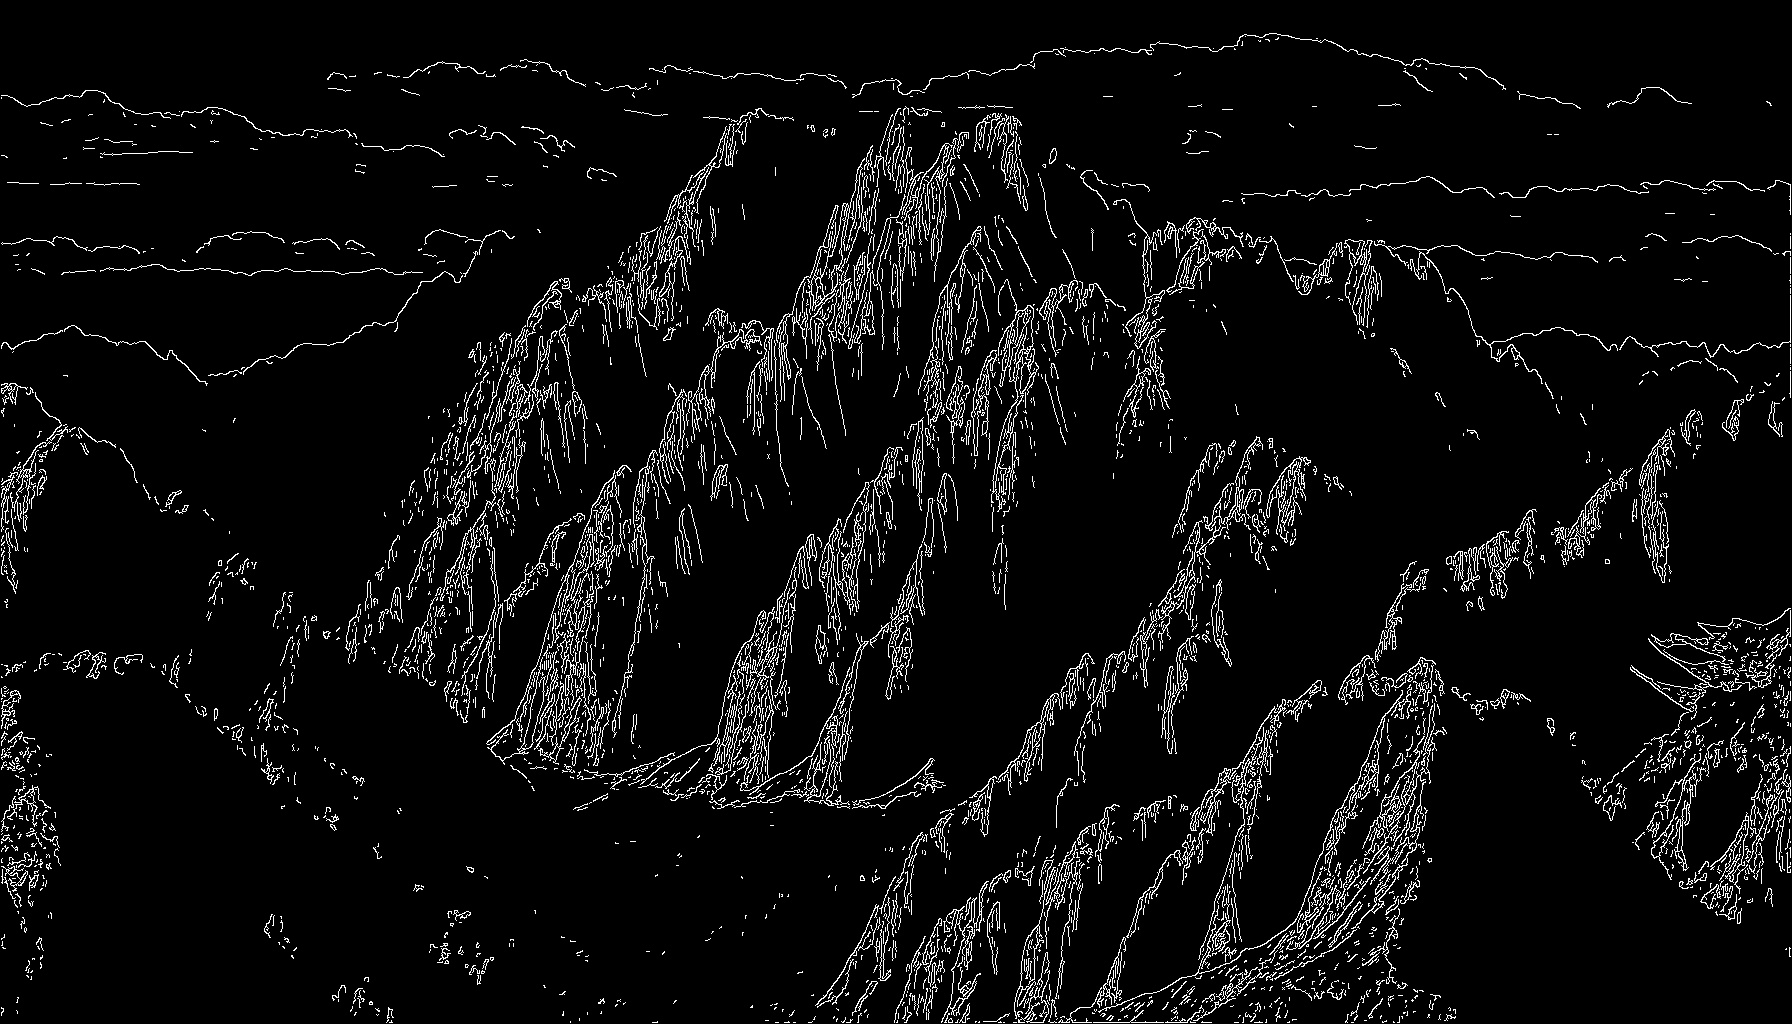
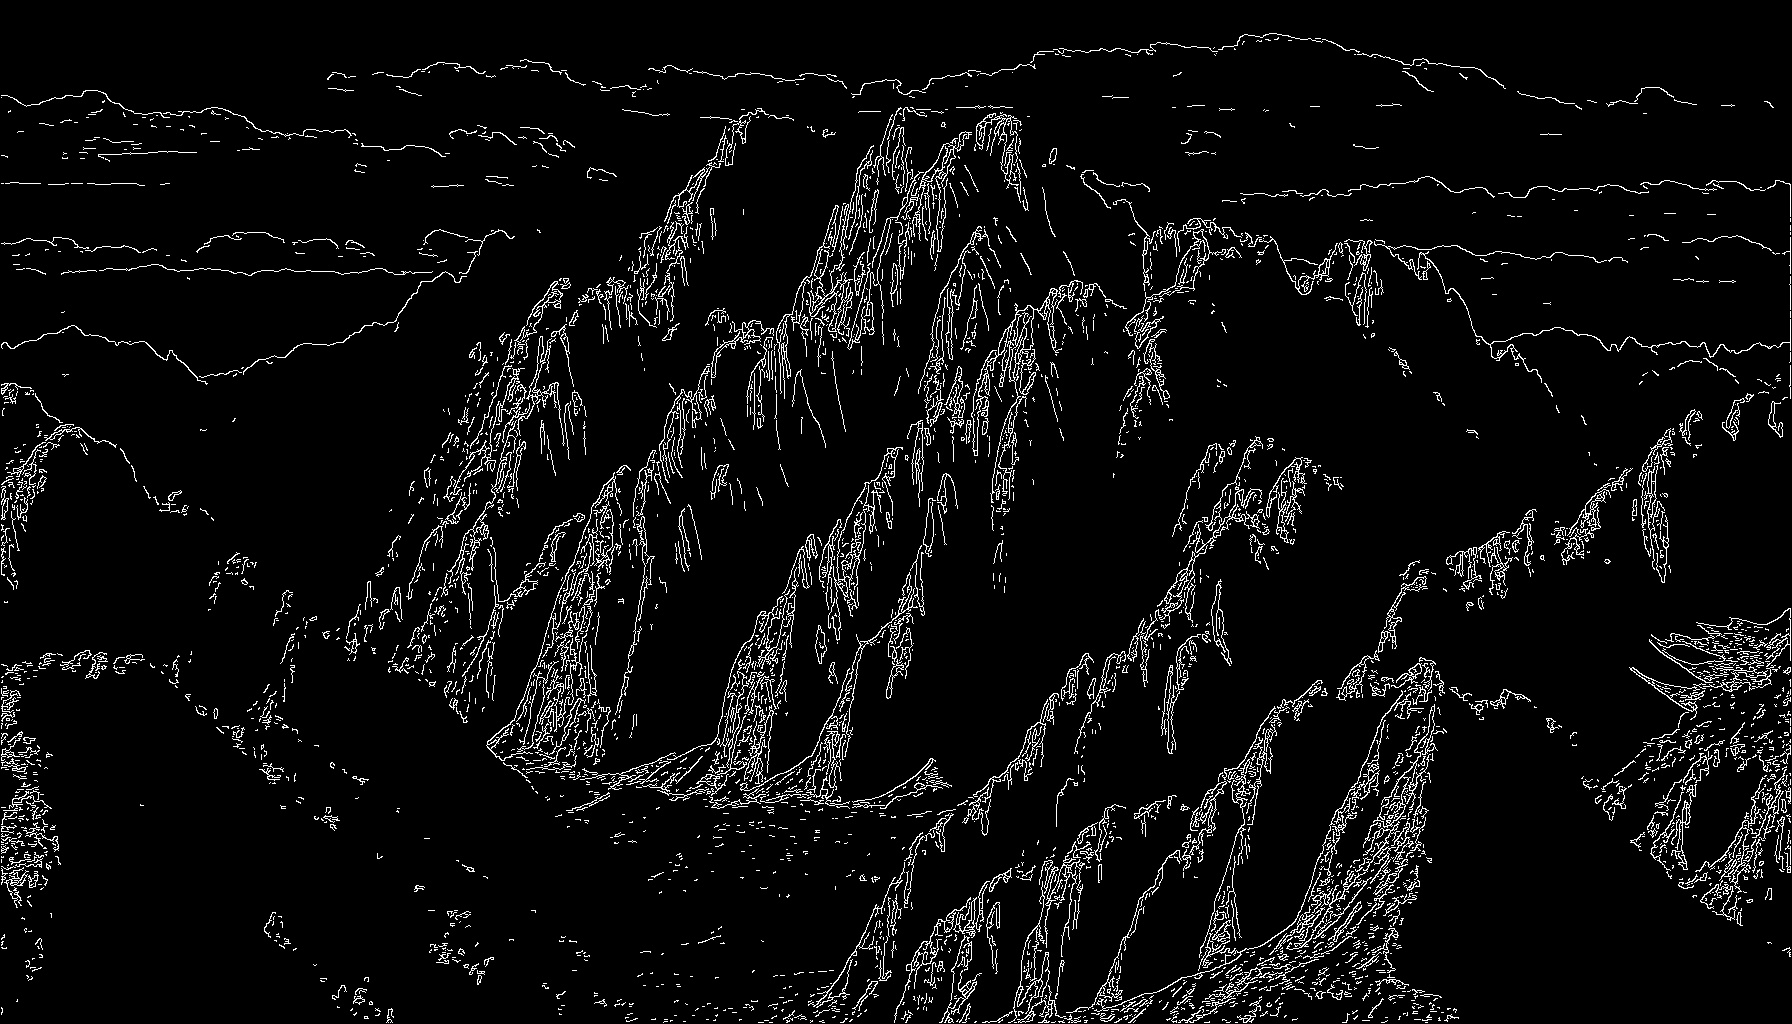
Tmp2

diff --git a/Canny_x86/SIMD.cpp b/Canny_x86/SIMD.cpp
@@ -86,13 +86,13 @@ void SSE::PerformGaussianBlur(uint8_t* Output, const uint8_t* OriImg, int Width,
     for (int t = 0; t < ThreadsNum; ++t)
     {
         Threads[t] = std::thread([&, t]() {
-            int ColPerThread = Width / ThreadsNum;
-            int Start        = t * ColPerThread;
-            int End          = (t == ThreadsNum - 1) ? Width : Start + ColPerThread;
-            for (int x = Start; x < End; x++)
+            int RowPerThread = Height / ThreadsNum;
+            int Start        = t * RowPerThread;
+            int End          = (t == ThreadsNum - 1) ? Height : Start + RowPerThread;
+            for (int y = Start; y < End; y++)
             {
-                int y = 0;
-                for (; y <= Height - 4; y += 4)
+                int x = 0;
+                for (; x <= Width - 4; x += 4)
                 {
                     __m128 PixelVal0 = _mm_setzero_ps();
                     __m128 PixelVal1 = _mm_setzero_ps();
@@ -102,59 +102,51 @@ void SSE::PerformGaussianBlur(uint8_t* Output, const uint8_t* OriImg, int Width,
 
                     for (int i = -KernelRadius; i <= KernelRadius; i++)
                     {
-                        int ny0 = y + i;
-                        if (ny0 >= 0 && ny0 < Height)
+                        int nx0 = x + i;
+                        if (nx0 >= 0 && nx0 < Width)
                         {
-                            int    ImgIdx0   = ny0 * Width + x;
-                            __m128 ImgPixel0 = _mm_set1_ps(Tmp[ImgIdx0]);
+                            int    ImgIdx0   = y * Width + nx0;
+                            __m128 ImgPixel0 = _mm_set1_ps(static_cast<float>(Tmp[ImgIdx0]));
                             __m128 KernelVal = _mm_set1_ps(GaussianKernel_1D[KernelRadius + i]);
                             PixelVal0        = _mm_add_ps(PixelVal0, _mm_mul_ps(ImgPixel0, KernelVal));
-                            if (ny0 + 1 < Height)
-                                PixelVal1 =
-                                    _mm_add_ps(PixelVal1, _mm_mul_ps(_mm_set1_ps(Tmp[ImgIdx0 + Width]), KernelVal));
-                            if (ny0 + 2 < Height)
-                                PixelVal2 =
-                                    _mm_add_ps(PixelVal2, _mm_mul_ps(_mm_set1_ps(Tmp[ImgIdx0 + 2 * Width]), KernelVal));
-                            if (ny0 + 3 < Height)
-                                PixelVal3 =
-                                    _mm_add_ps(PixelVal3, _mm_mul_ps(_mm_set1_ps(Tmp[ImgIdx0 + 3 * Width]), KernelVal));
+                            if (nx0 + 1 < Width)
+                                PixelVal1 = _mm_add_ps(PixelVal1,
+                                    _mm_mul_ps(_mm_set1_ps(static_cast<float>(Tmp[ImgIdx0 + 1])), KernelVal));
+                            if (nx0 + 2 < Width)
+                                PixelVal2 = _mm_add_ps(PixelVal2,
+                                    _mm_mul_ps(_mm_set1_ps(static_cast<float>(Tmp[ImgIdx0 + 2])), KernelVal));
+                            if (nx0 + 3 < Width)
+                                PixelVal3 = _mm_add_ps(PixelVal3,
+                                    _mm_mul_ps(_mm_set1_ps(static_cast<float>(Tmp[ImgIdx0 + 3])), KernelVal));
                             KernelSum = _mm_add_ps(KernelSum, KernelVal);
                         }
                     }
 
-                    __m128 InvKernelSum   = _mm_div_ps(_mm_set1_ps(1.0f), KernelSum);
-                    Output[y * Width + x] = (uint8_t)std::min(
-                        std::max((int)(_mm_cvtss_f32(_mm_mul_ps(PixelVal0, InvKernelSum)) + 0.5f), 0), 255);
-                    Output[(y + 1) * Width + x] = (uint8_t)std::min(
-                        std::max((int)(_mm_cvtss_f32(_mm_mul_ps(PixelVal1, InvKernelSum)) + 0.5f), 0), 255);
-                    Output[(y + 2) * Width + x] = (uint8_t)std::min(
-                        std::max((int)(_mm_cvtss_f32(_mm_mul_ps(PixelVal2, InvKernelSum)) + 0.5f), 0), 255);
-                    Output[(y + 3) * Width + x] = (uint8_t)std::min(
-                        std::max((int)(_mm_cvtss_f32(_mm_mul_ps(PixelVal3, InvKernelSum)) + 0.5f), 0), 255);
+                    __m128 InvKernelSum    = _mm_div_ps(_mm_set1_ps(1.0f), KernelSum);
+                    Output[y * Width + x]     = _mm_cvtss_f32(_mm_mul_ps(PixelVal0, InvKernelSum));
+                    Output[y * Width + x + 1] = _mm_cvtss_f32(_mm_mul_ps(PixelVal1, InvKernelSum));
+                    Output[y * Width + x + 2] = _mm_cvtss_f32(_mm_mul_ps(PixelVal2, InvKernelSum));
+                    Output[y * Width + x + 3] = _mm_cvtss_f32(_mm_mul_ps(PixelVal3, InvKernelSum));
                 }
 
-                for (; y < Height; y++)
+                for (; x < Width; x++)
                 {
                     __m128 PixelVal  = _mm_setzero_ps();
                     __m128 KernelSum = _mm_setzero_ps();
                     for (int i = -KernelRadius; i <= KernelRadius; i++)
                     {
-                        int ny = y + i;
-                        if (ny >= 0 && ny < Height)
+                        int nx = x + i;
+                        if (nx >= 0 && nx < Width)
                         {
-                            int    ImgIdx    = ny * Width + x;
-                            __m128 ImgPixel  = _mm_set1_ps(Tmp[ImgIdx]);
+                            int    ImgIdx    = y * Width + nx;
+                            __m128 ImgPixel  = _mm_set1_ps(static_cast<float>(Tmp[ImgIdx]));
                             __m128 KernelVal = _mm_set1_ps(GaussianKernel_1D[KernelRadius + i]);
                             PixelVal         = _mm_add_ps(PixelVal, _mm_mul_ps(ImgPixel, KernelVal));
                             KernelSum        = _mm_add_ps(KernelSum, KernelVal);
                         }
                     }
-                    PixelVal              = _mm_div_ps(PixelVal, KernelSum);
-                    Output[y * Width + x] = (uint8_t)std::min(
-                        std::max(
-                            (int)(_mm_cvtss_f32(_mm_shuffle_ps(PixelVal, PixelVal, _MM_SHUFFLE(0, 0, 0, 0))) + 0.5f),
-                            0),
-                        255);
+                    PixelVal           = _mm_div_ps(PixelVal, KernelSum);
+                    Output[y * Width + x] = _mm_cvtss_f32(_mm_shuffle_ps(PixelVal, PixelVal, _MM_SHUFFLE(0, 0, 0, 0)));
                 }
             }
         });
